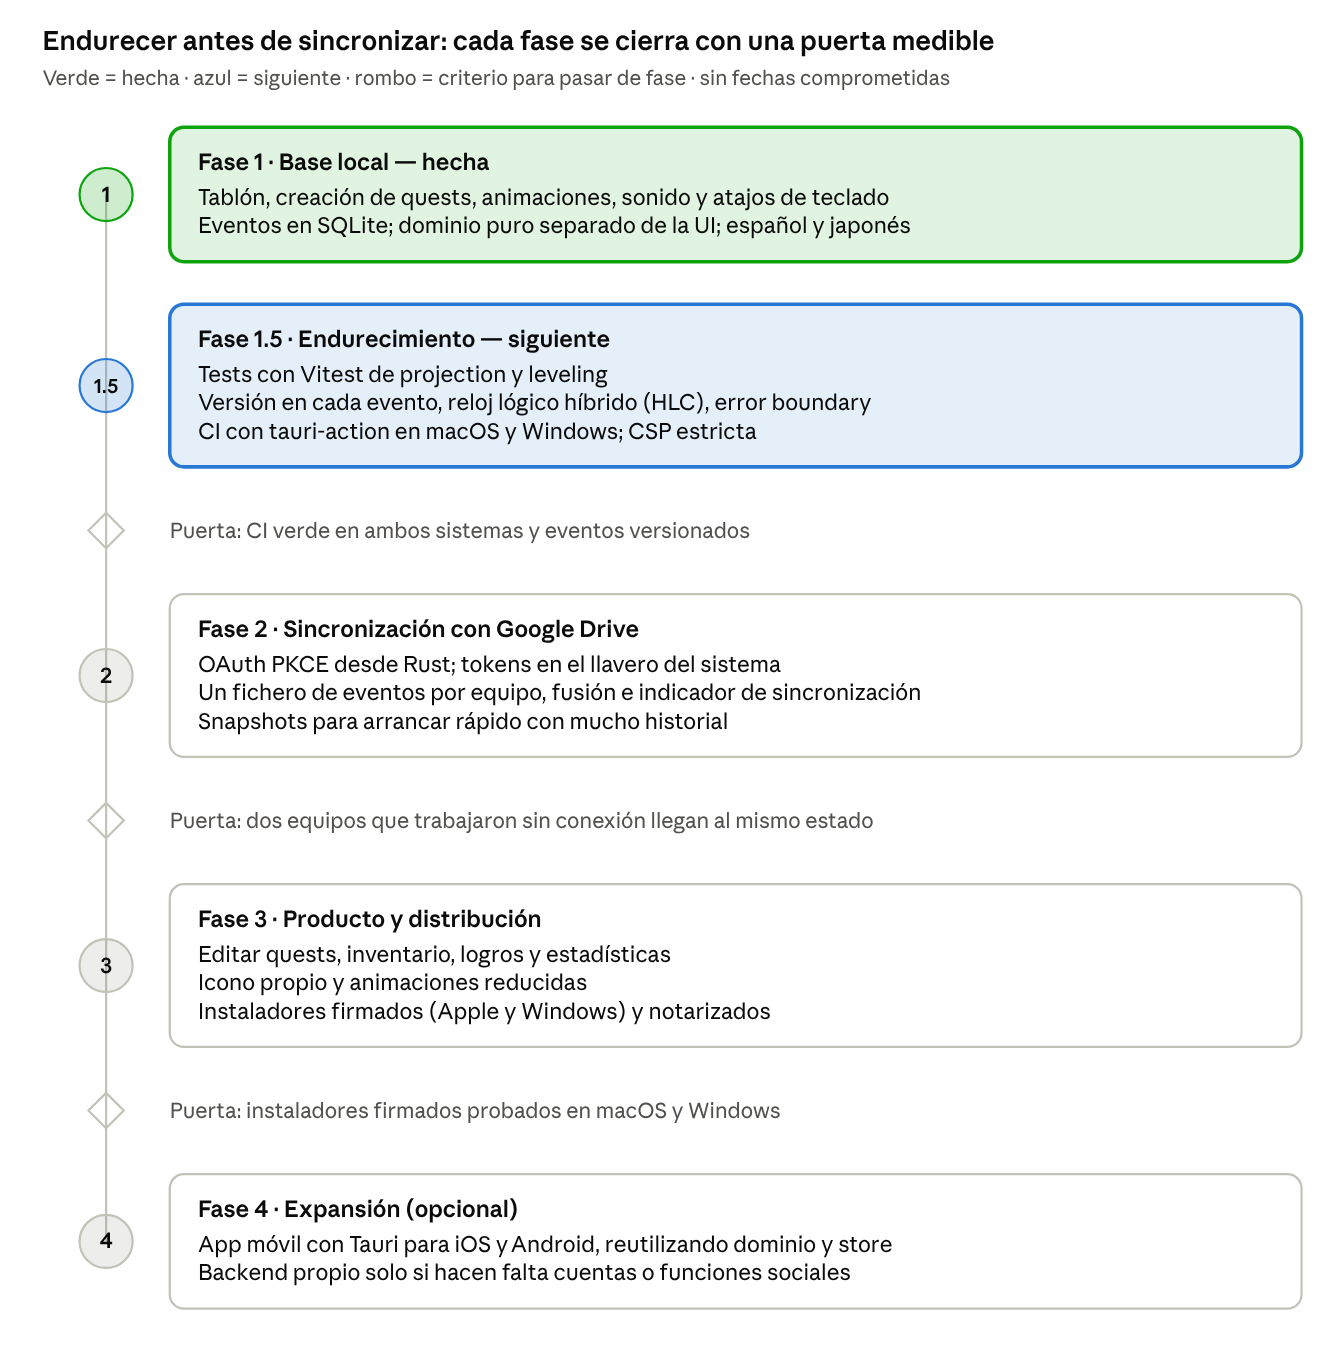
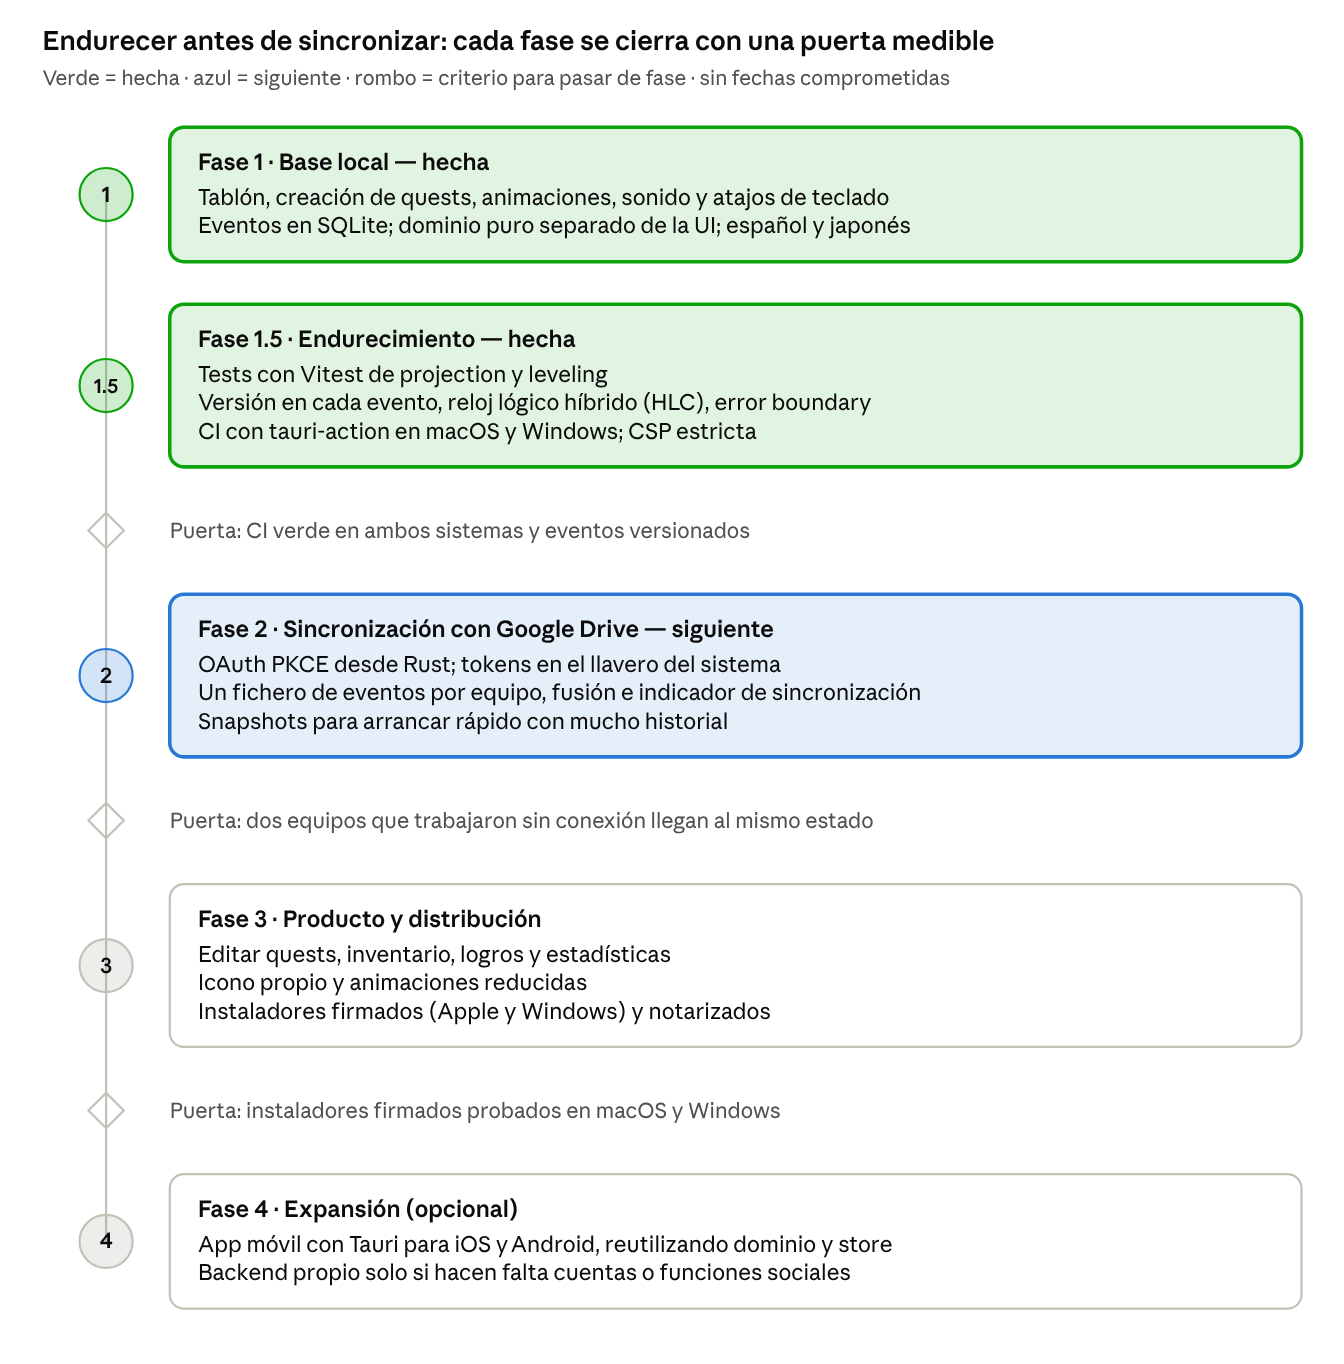
Cambio acciones a Node 24

diff --git a/README.md b/README.md
@@ -133,7 +133,7 @@ En el tablón de encargos: `↑↓←→` moverse · `Enter` abrir el cartel · 
 - [x] Snapshot de la proyección (`src/features/snapshot/`) y tests con Vitest del dominio y el store (302)
 - [x] Mercader con Hu Tao (`src/features/merchant/`), personaje con su equipo (`src/features/equipment/`) y atributos por área (`src/features/attributes/`)
 - [x] Equipo de serie (`src/features/armory/`), rachas (`src/features/streaks/`), objetivo de tipo lista (`src/features/checklist/`) y crónica del aventurero (`src/features/chronicle/`)
-- [ ] **Fase 1.5 (endurecimiento):** hechos los eventos versionados, el reloj lógico híbrido, el error boundary (`src/features/recovery/`), la CSP estricta y la CI en macOS y Windows (314 tests). Se cierra cuando la CI pase en verde en los dos sistemas
+- [x] **Fase 1.5 (endurecimiento):** eventos versionados, reloj lógico híbrido, error boundary (`src/features/recovery/`), CSP estricta y CI en verde en macOS y Windows (314 tests)
 - [ ] **Fase 2:** sincronización con Google Drive
   - OAuth 2 PKCE con redirección a loopback desde Rust, scope `drive.file`
   - Cada dispositivo sube `events-<deviceId>.jsonl` a la carpeta `QuestsApp/`

diff --git a/docs/INFORME-TECNICO.md b/docs/INFORME-TECNICO.md
@@ -300,5 +300,5 @@ No hay fechas comprometidas: cada fase termina cuando se cumple su puerta, no en
 - [x] Añadir un error boundary con pantalla de recuperación
 - [x] Configurar GitHub Actions con `tauri-action` para macOS y Windows
 - [x] CSP estricta en `tauri.conf.json`
-- [ ] CI en verde en macOS y Windows (puerta de la fase 1.5) y probar a mano el instalador de Windows
+- [x] CI en verde en macOS y Windows (puerta de la fase 1.5). Queda probar a mano el instalador de Windows
 - [ ] Crear el proyecto en Google Cloud con un OAuth Client ID de tipo «Desktop app» (lo hace el propietario de la cuenta)
